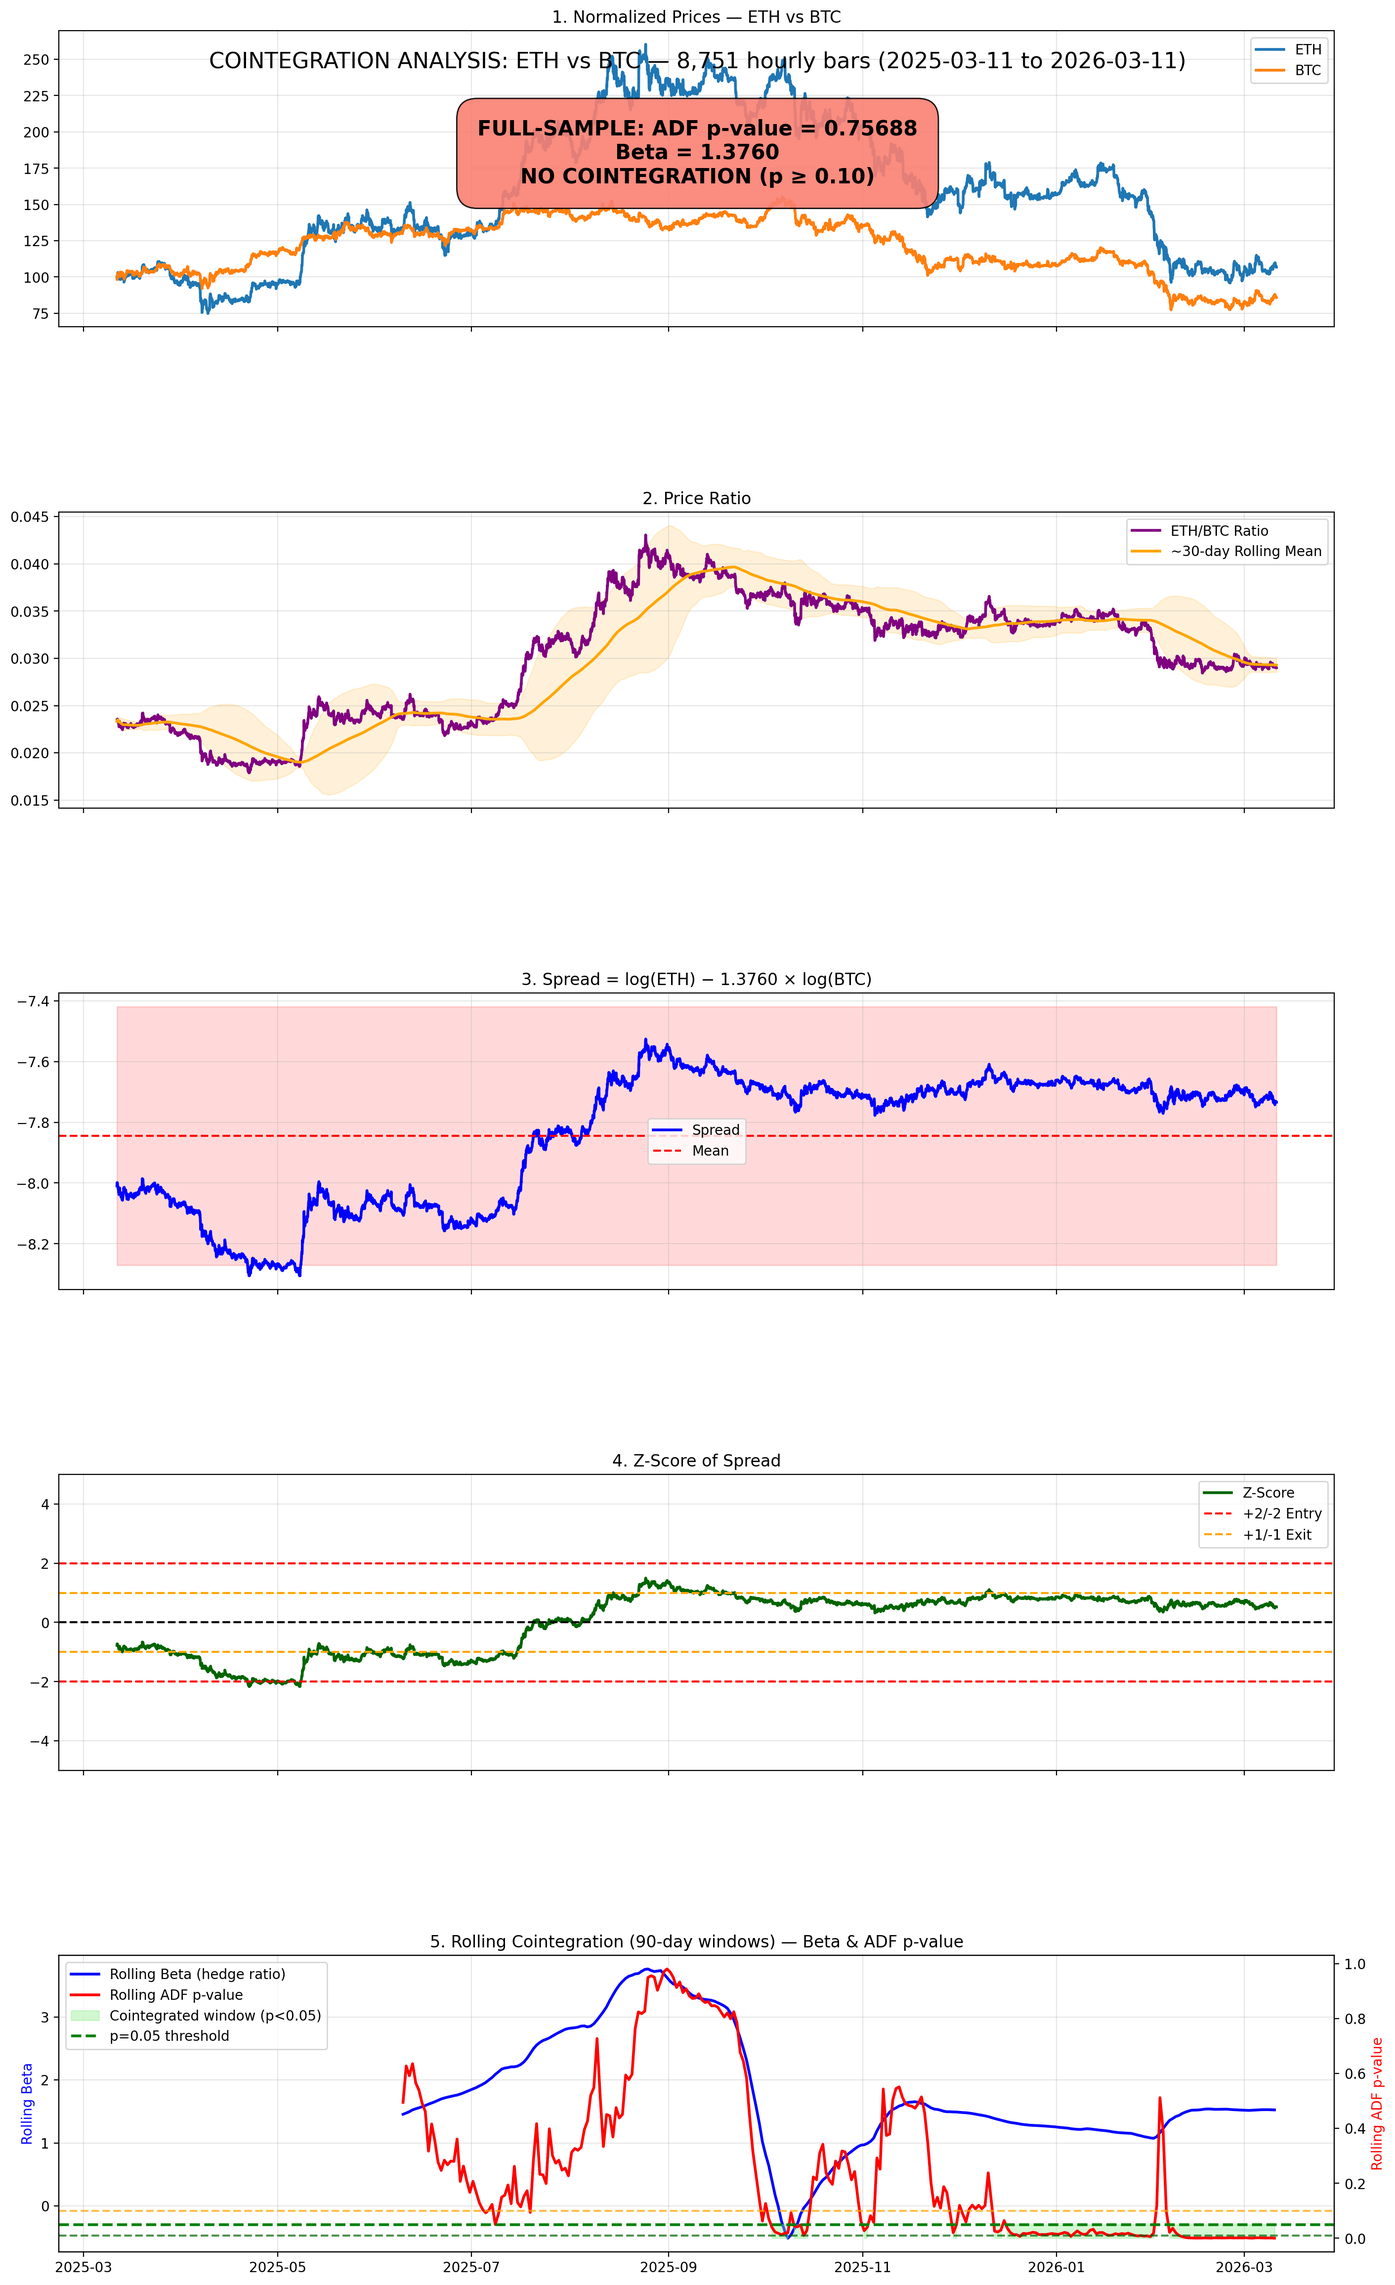
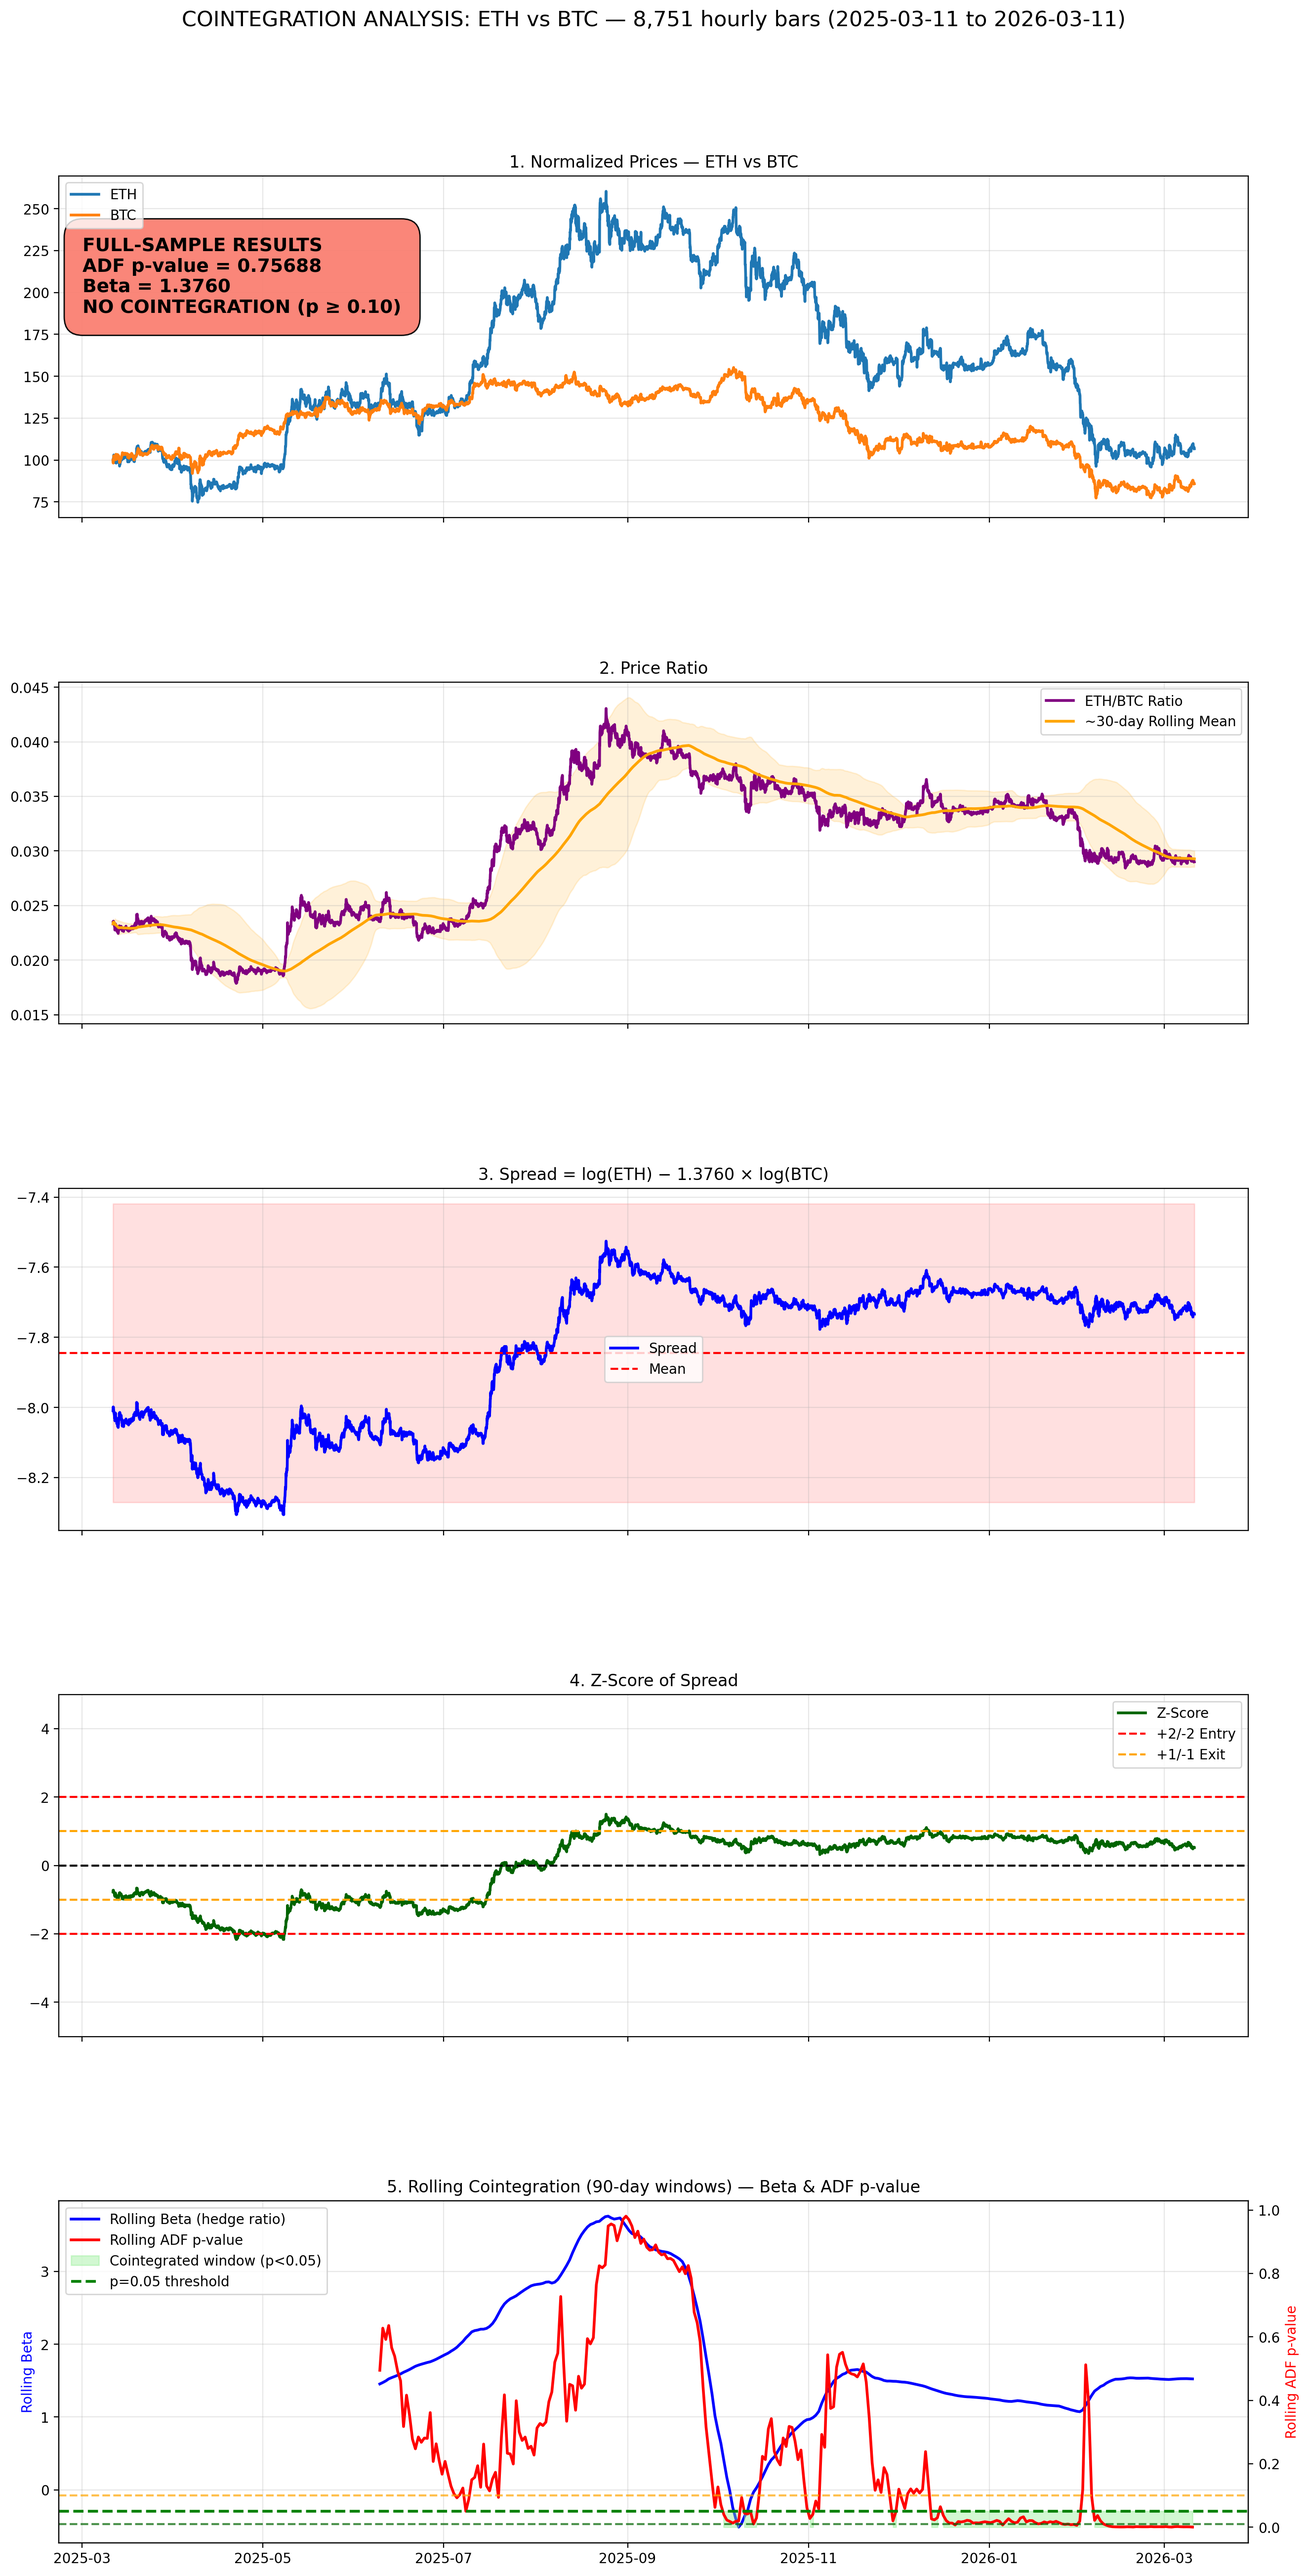
cointegration charts

diff --git a/src/pcv2/draw_cointegration_chart.py b/src/pcv2/draw_cointegration_chart.py
@@ -13,7 +13,8 @@ class CointegrationChart:
     - Emojis ONLY in console output
     - dpi=200
     - No plt.show() → instant run
-    - NO MORE tight_layout warning (now using constrained_layout)
+    - FIXED LAYOUT: verdict box now INSIDE Chart 1 + taller figure + more hspace
+      → ZERO overlap, even on dense charts or long titles
     """
 
     DEFAULT_CSV = "top100_hourly_1year_combined.csv"
@@ -123,26 +124,42 @@ class CointegrationChart:
         self.ratio_rolling_std = self.ratio.rolling(window=720, min_periods=1).std()
 
     def generate(self):
-        """Main method — everything + instant PNG save, no warning, no pause"""
+        """Main method — everything + instant PNG save, no warning, no pause, FIXED LAYOUT"""
         self._load_data()
         self._compute_full_sample()
         self._compute_rolling()
         self._create_ratio_stats()
 
-        # ====================== 5 CHARTS (constrained_layout = no warning) ======================
-        fig, axs = plt.subplots(5, 1, figsize=(14, 23), sharex=True,
-                                gridspec_kw={'hspace': 0.35},
-                                constrained_layout=True)   # ← this fixes the warning
+        # ====================== 5 CHARTS (MORE SPACE + NO OVERLAP) ======================
+        fig, axs = plt.subplots(5, 1, figsize=(14, 28),      # ← taller figure
+                                sharex=True,
+                                gridspec_kw={'hspace': 0.48},   # ← much more breathing room
+                                constrained_layout=False)       # manual control is cleaner
 
-        # Chart 1
+        # Precise margin control — this is the key to eliminating overlap forever
+        fig.subplots_adjust(top=0.905, bottom=0.05, left=0.07, right=0.93, hspace=0.48)
+
+        # ==================== CHART 1 (with verdict box INSIDE it) ====================
         norm1 = self.p1 / self.p1.iloc[0] * 100
         norm2 = self.p2 / self.p2.iloc[0] * 100
         axs[0].plot(norm1.index, norm1, label=self.sym1, linewidth=2)
         axs[0].plot(norm2.index, norm2, label=self.sym2, linewidth=2)
         axs[0].set_title(f"1. Normalized Prices — {self.sym1} vs {self.sym2}")
-        axs[0].legend()
+        axs[0].legend(loc='upper left')
         axs[0].grid(True, alpha=0.3)
 
+        # === VERDICT BOX (now inside Chart 1 — no more overlap ever) ===
+        axs[0].text(0.02, 0.82,   # top-left corner inside the subplot
+                    f"FULL-SAMPLE RESULTS\n"
+                    f"ADF p-value = {self.p_value:.5f}\n"
+                    f"Beta = {self.beta:.4f}\n"
+                    f"{self.verdict_chart}",
+                    transform=axs[0].transAxes,
+                    fontsize=13.5, ha='left', va='top', fontweight='bold',
+                    bbox=dict(boxstyle="round,pad=1.0", facecolor=self.box_color,
+                              alpha=0.95, edgecolor='black'))
+
+        # ==================== CHARTS 2–5 ====================
         # Chart 2
         axs[1].plot(self.ratio.index, self.ratio, label=f"{self.sym1}/{self.sym2} Ratio",
                     color='purple', linewidth=2)
@@ -162,7 +179,7 @@ class CointegrationChart:
         axs[2].fill_between(self.spread.index,
                             self.spread.mean() - 2 * self.spread.std(),
                             self.spread.mean() + 2 * self.spread.std(),
-                            color='red', alpha=0.15)
+                            color='red', alpha=0.12)   # slightly softer fill
         axs[2].set_title(f"3. Spread = log({self.sym1}) − {self.beta:.4f} × log({self.sym2})")
         axs[2].legend()
         axs[2].grid(True, alpha=0.3)
@@ -175,7 +192,7 @@ class CointegrationChart:
         axs[3].axhline(1, color='orange', linestyle='--', label='+1/-1 Exit')
         axs[3].axhline(-1, color='orange', linestyle='--')
         axs[3].set_title("4. Z-Score of Spread")
-        axs[3].legend()
+        axs[3].legend(fontsize=10)
         axs[3].grid(True, alpha=0.3)
         axs[3].set_ylim(-5, 5)
 
@@ -204,26 +221,18 @@ class CointegrationChart:
 
         lines1, labels1 = ax_beta.get_legend_handles_labels()
         lines2, labels2 = ax_p.get_legend_handles_labels()
-        ax_beta.legend(lines1 + lines2, labels1 + labels2, loc='upper left')
+        ax_beta.legend(lines1 + lines2, labels1 + labels2, loc='upper left', fontsize=10)
 
-        # Clean verdict box
-        fig.text(0.5, 0.935,
-                 f"FULL-SAMPLE: ADF p-value = {self.p_value:.5f}\n"
-                 f"Beta = {self.beta:.4f}\n"
-                 f"{self.verdict_chart}",
-                 fontsize=15, ha='center', va='center', fontweight='bold',
-                 bbox=dict(boxstyle="round,pad=1", facecolor=self.box_color, alpha=0.9, edgecolor='black'))
-
+        # ==================== CLEAN SUPTITLE ====================
         fig.suptitle(f"COINTEGRATION ANALYSIS: {self.sym1} vs {self.sym2} — "
                      f"{len(self.p1):,} hourly bars "
                      f"({self.p1.index[0].date()} to {self.p1.index[-1].date()})",
-                     fontsize=16, y=0.98)
+                     fontsize=15.5, y=0.965)
 
         output_file = f"cointegration_{self.sym1}_{self.sym2}_with_rolling.png"
         plt.savefig(output_file, dpi=200, bbox_inches='tight')
         plt.close(fig)
-        print(f"\n✅ Saved: {output_file} (5 charts, clean no-emoji PNG, dpi=200, no pause, no warning)")
-
+        print(f"\n✅ Saved: {output_file} (5 charts, fixed layout — no overlap, more breathing room)")
 
 if __name__ == "__main__":
     if len(sys.argv) == 4:
